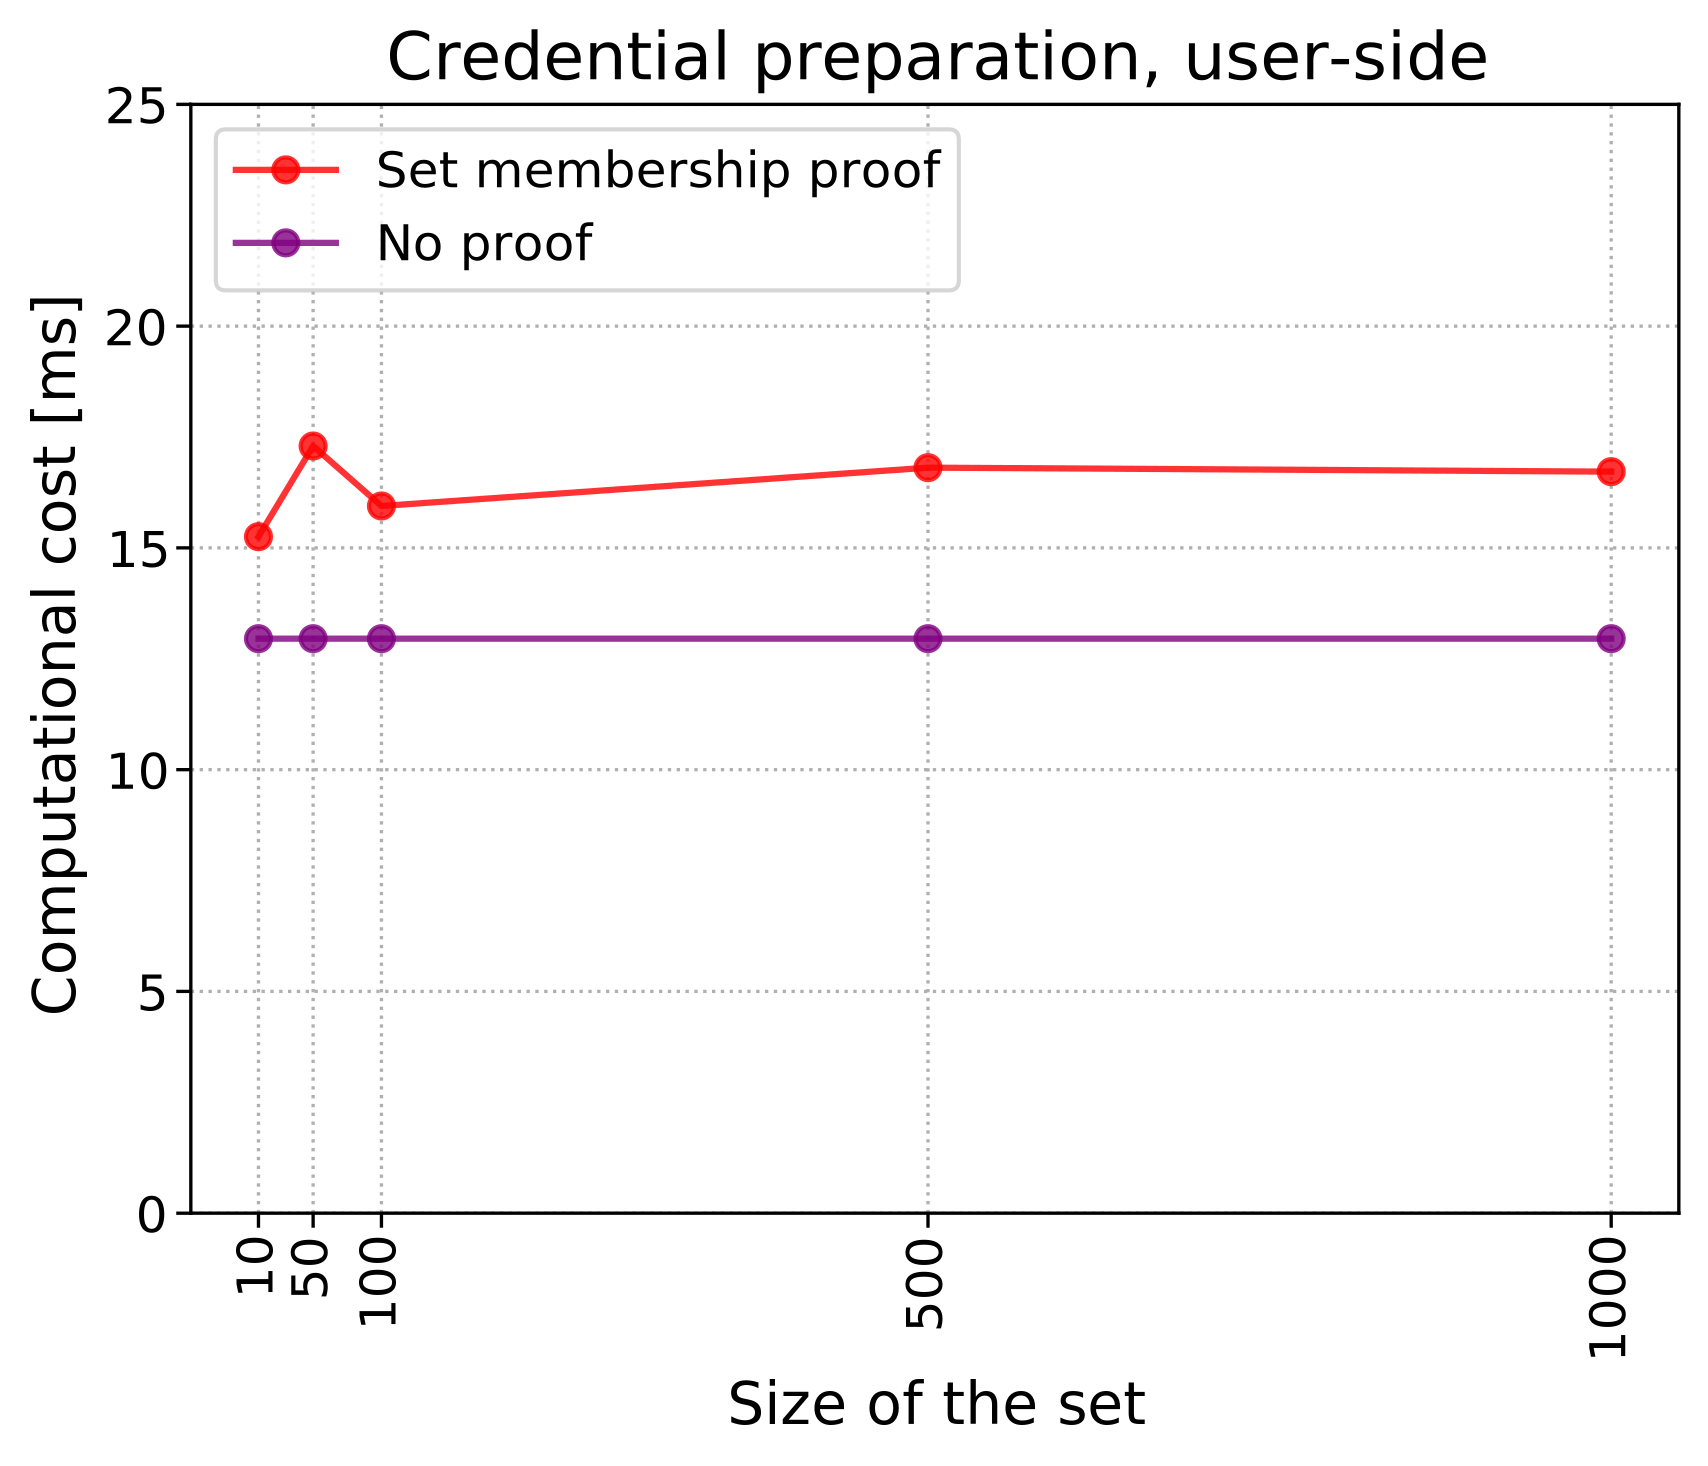
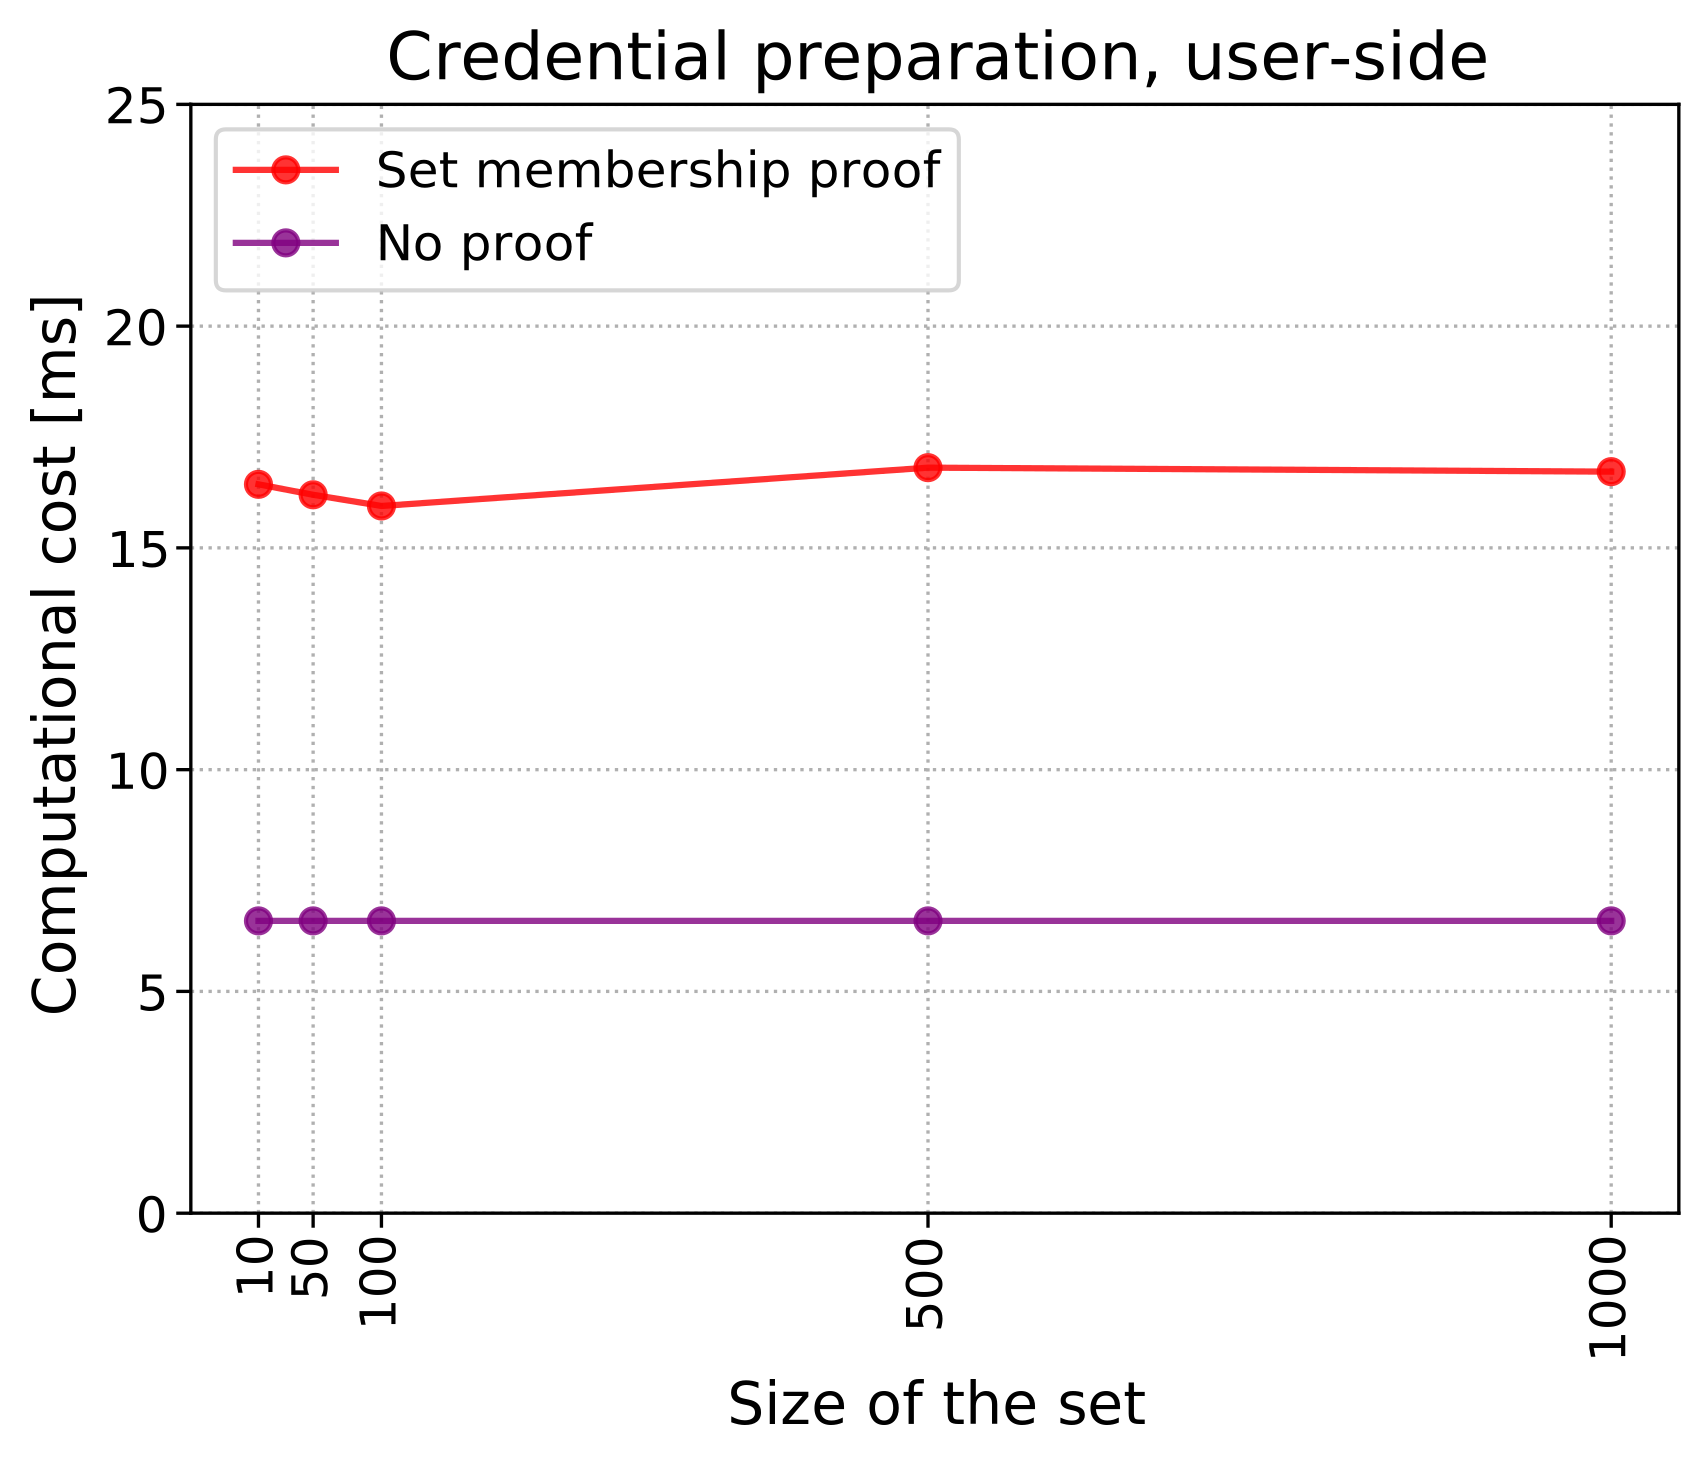
update benchmarks

Changed region(s): [[0.1241, 0.6139, 0.9619, 0.6446], [0.1241, 0.4297, 0.9619, 0.4604], [0.1241, 0.2763, 0.2172, 0.3683]]

diff --git a/coconut-rs/benches/final_plots.py b/coconut-rs/benches/final_plots.py
@@ -10,16 +10,16 @@ mpl.use("GTK4Cairo")
 x_values = [10, 50, 100, 500, 1000]
 
 # no proof
-none_prove = [12.953] * len(x_values)
+none_prove = [6.5899] * len(x_values)
 none_proof_size = [296] * len(x_values)
-none_verify =[21.274] * len(x_values)
+none_verify =[9.6713] * len(x_values)
 
 # set membership proof
 set_issue = [11.103, 68.859, 143.02, 636.25, 1397.3]
 set_issuance_size = [value * 96 for value in x_values]
-set_prove = [15.253, 17.297, 15.945, 16.809, 16.719]
+set_prove = [16.433, 16.197, 15.945, 16.809, 16.719]
 set_proof_size = [680] * len(x_values)
-set_verify = [19.973, 19.297, 18.595, 21.271, 18.511]
+set_verify = [19.973, 19.297, 18.872, 19.472, 18.511]
 
 range_issue_2 = [2.6061, 2.8156, 2.8066, 2.8068, 2.8043]
 range_issuance_size_2 = [2*96] * len(x_values)
